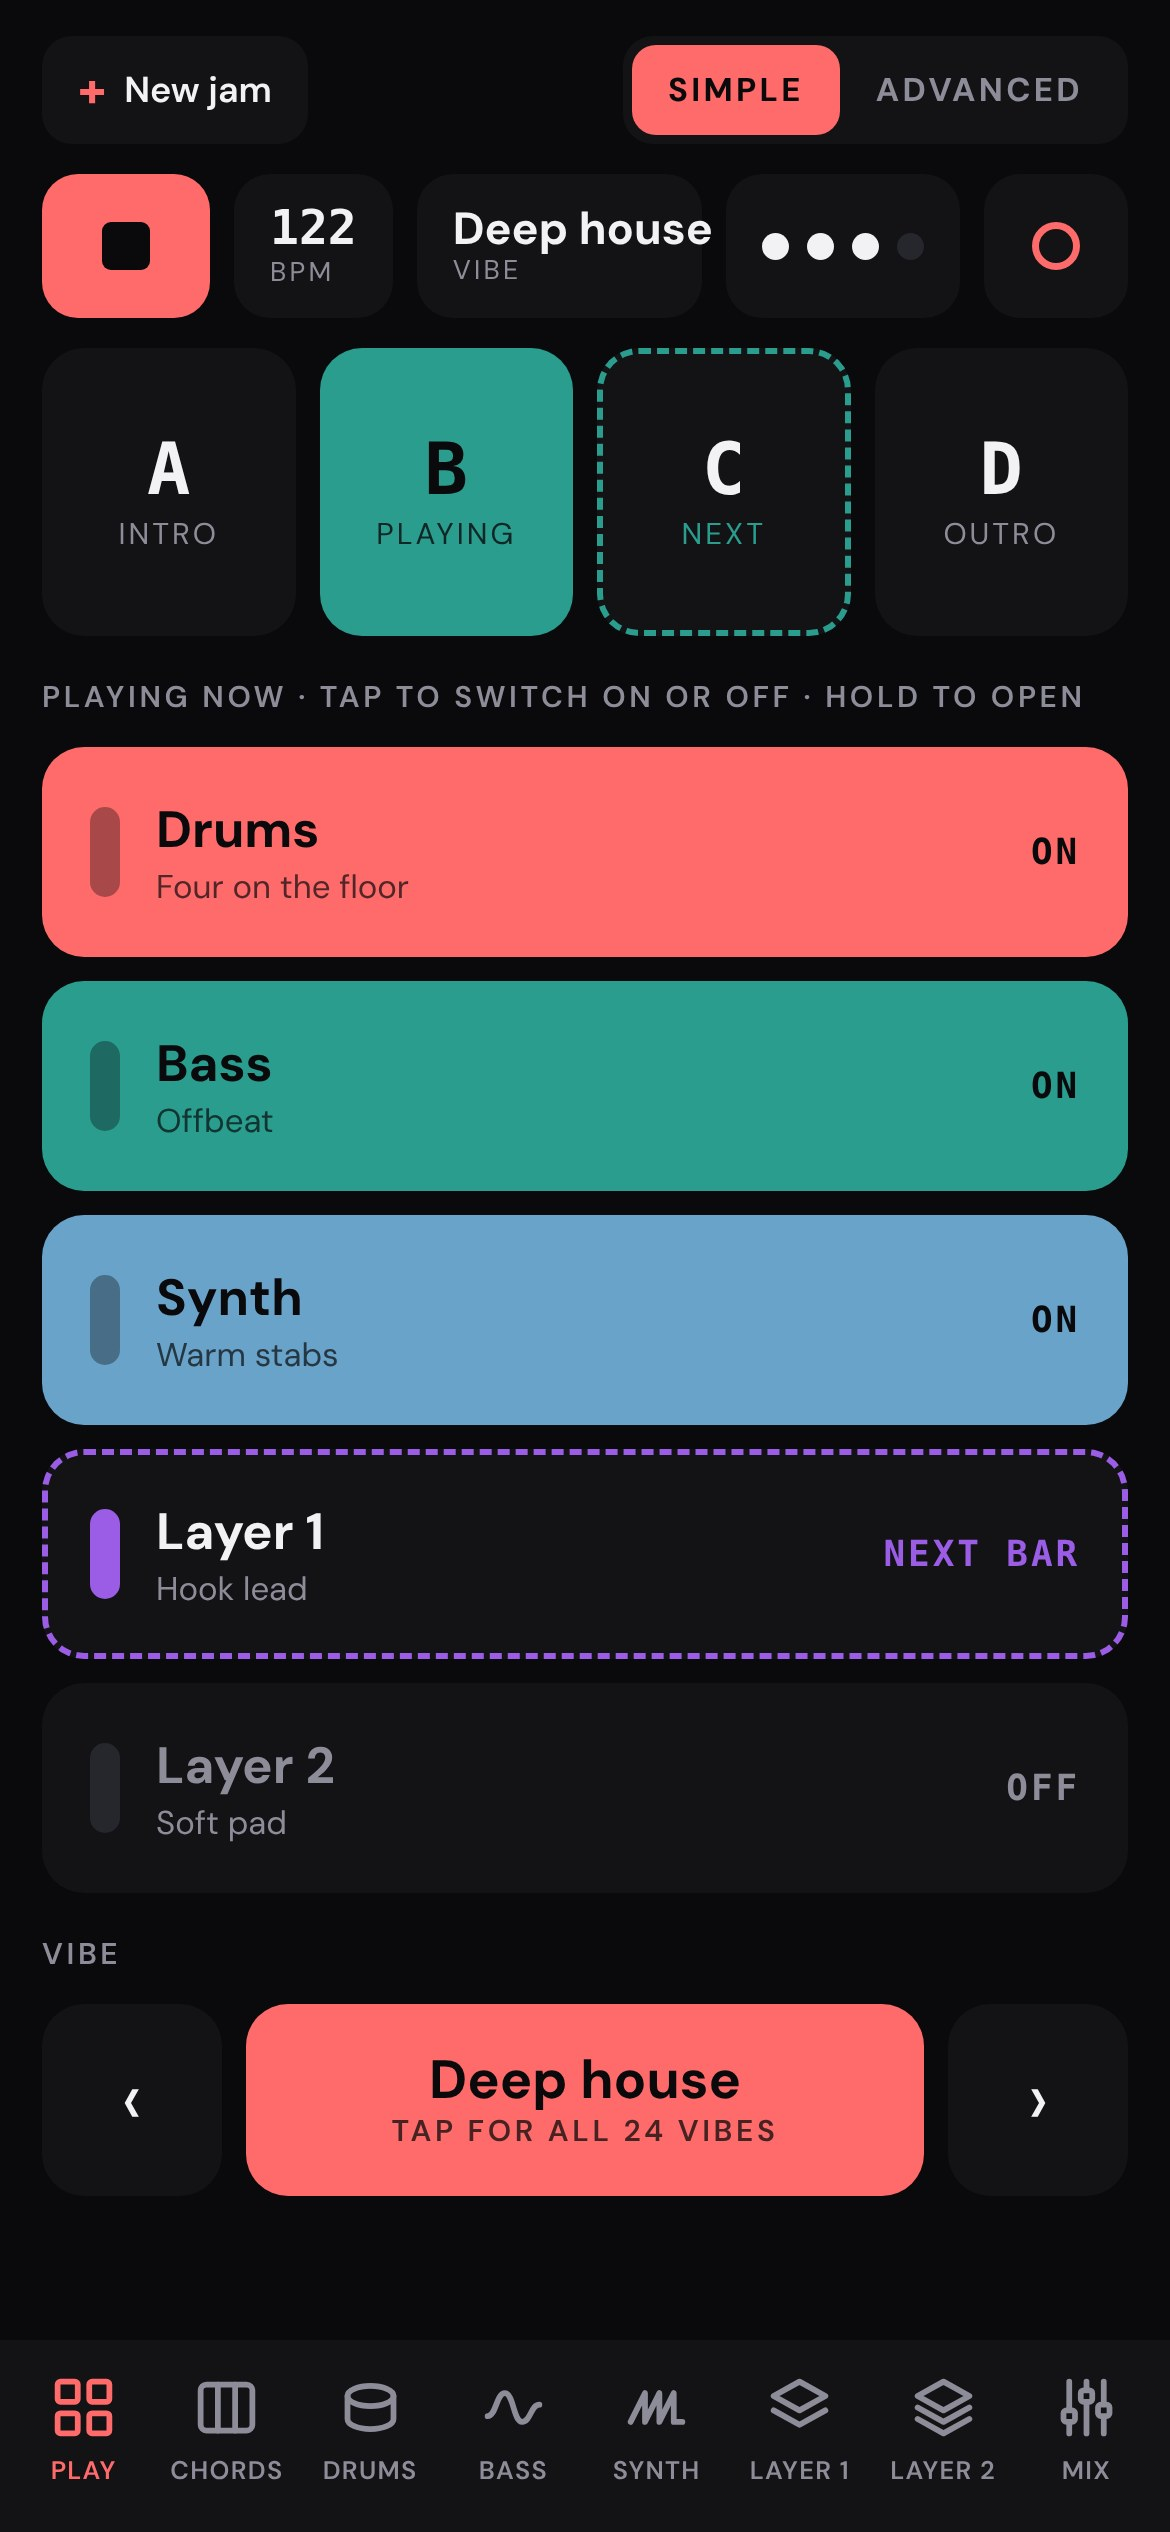
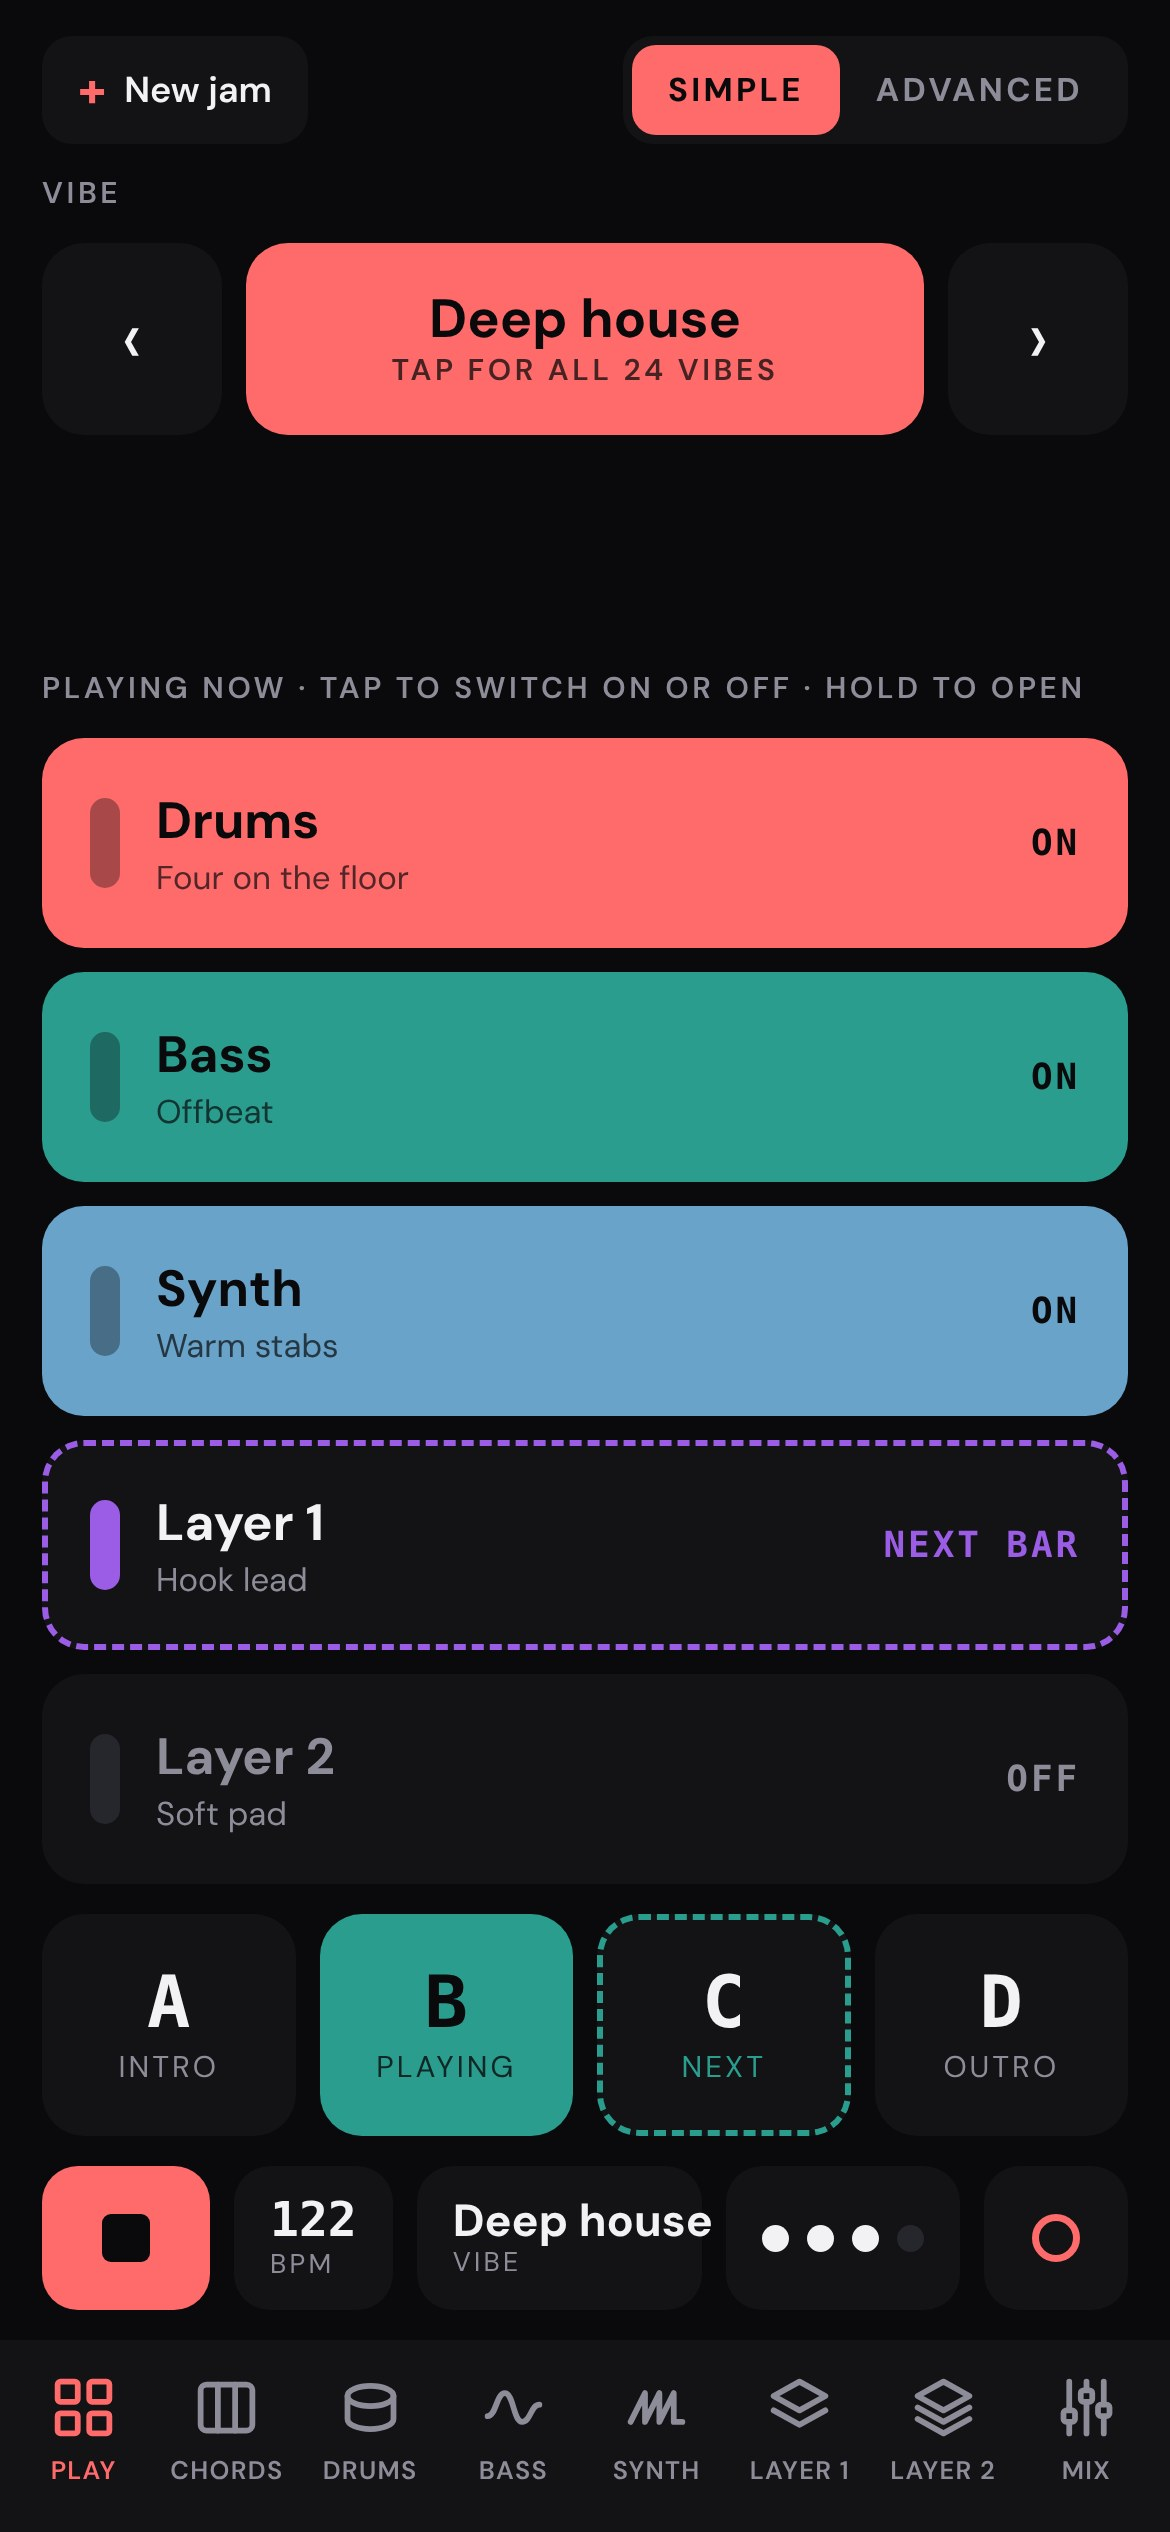
Phase 2 design: text always fits its tile; sections and transport at the bottom
Claude-Session: https://claude.ai/code/session_01KMmgQyHdzjD1srd9TaRjgE

diff --git a/docs/design/phase2/gen.py b/docs/design/phase2/gen.py
@@ -357,4 +357,75 @@ page("6-vibe-picker",
      + f'<div class="vgrid">{tiles}</div>'
      + '<div class="cap" style="text-align:center;margin-top:auto;padding-bottom:16px">One tap loads a full groove on the next bar</div>')
 
+# ---- revision 2: sections and transport sit at the bottom, in thumb reach ----
+CSS += """
+.content{flex:1;min-height:0;display:flex;flex-direction:column;gap:10px}
+.secs.big .sec{height:74px}
+.tabs{margin-top:0}
+"""
+
+def aligned_strip(states):
+    names_ = ["Intro", "Groove", "Break", "Outro"]
+    words_ = {"playing": "Playing", "next": "Next", "edit": "✎ Editing"}
+    out = '<div class="grid"><div class="cap" style="display:flex;align-items:center">Sections</div>'
+    for i, st in enumerate(states):
+        out += f'<div class="sec {st}" style="height:56px"><b>{"ABCD"[i]}</b><span>{words_.get(st, names_[i])}</span></div>'
+    return out + "</div>"
+
+def screen(name, mode, content, states, tab, big=False, aligned=False):
+    st = aligned_strip(states) if aligned else strip(states, big)
+    page(name, header(mode) + f'<div class="content">{content}</div>' + st + transport(mode) + tabs(tab))
+
+screen("1-simple-play", "simple",
+       '<div class="cap">Vibe</div>'
+       '<div class="stepper"><div class="arrow">‹</div><div class="cur"><b>Deep house</b><span>tap for all 24 vibes</span></div><div class="arrow">›</div></div>'
+       '<div style="flex:1"></div><div class="cap">Playing now · tap to switch on or off · hold to open</div>'
+       f'<div style="display:flex;flex-direction:column;gap:8px">{rows}</div>',
+       ["", "playing", "next", ""], "Play", big=True)
+
+screen("2-simple-layer", "simple",
+       f'<div class="title"><h1><span style="color:{v}">Layer 1</span></h1><div class="tog" style="background:{v}"><i></i></div></div>'
+       + chips(["Lead", "Arp", "Pad"], "Lead", v, 3)
+       + '<div class="cap">Lead style</div>' + chips(["Hook", "Phrase", "Roll", "Drift", "Pulse"], "Hook", v, 5)
+       + d2
+       + f'<div class="btns"><div class="btn">↶ Back</div><div class="btn" style="background:{v};color:#0a0a0c">✦ New idea</div></div>'
+       + xy(62, 45, "BRIGHT"),
+       ["", "playing", "", ""], "Layer 1")
+
+screen("3-simple-chords", "simple",
+       f'<div class="title"><h1><span style="color:{C["blue"]}">Chords</span></h1>'
+       '<div class="chip" style="margin-left:auto;height:32px;padding:0 12px;color:#f2f2f4">Deep house ▾</div></div>'
+       + '<div class="cap">Feel</div>' + chips(["Bright", "Warm", "Dreamy", "Dark", "Tense", "Uplifting"], "Dreamy", C["blue"], 3)
+       + '<div class="cap">Dreamy · 1 of 2</div>'
+       + f'<div style="display:flex;flex-direction:column;gap:8px">{cards4}</div>'
+       + '<div class="btns" style="grid-template-columns:1fr 1.2fr 1fr;margin-top:auto"><div class="btn">− Lower</div><div class="btn" style="color:#6aa3c9">More chords ›</div><div class="btn">Higher +</div></div>',
+       ["", "playing", "", ""], "Chords")
+
+g2 = '<div class="grid" style="margin-top:auto">'
+for n, col in INST:
+    g2 += f'<div class="rl" style="color:{col}">{n}<i>›</i></div>'
+    for i, o in enumerate(on[n]):
+        if n == "Bass" and i == 2:
+            g2 += f'<div class="cell next" style="--c:{col}"></div>'
+        else:
+            g2 += f'<div class="cell"{f" style=background:{col}" if o else ""}></div>'
+g2 += "</div>"
+legend2 = (
+    '<div class="legend" style="padding:12px 14px;gap:7px">'
+    '<div><i style="background:#2a9d8f"></i>Filled: playing now</div>'
+    '<div><i style="outline:2px dashed #2a9d8f;outline-offset:-2px"></i>Dashed: starts on the next bar</div>'
+    '<div><i style="outline:2px solid #e9c46a;outline-offset:-2px"></i>Pencil: editing without playing</div></div>'
+)
+screen("4-advanced-play", "advanced", legend2 + g2, ["", "playing", "next", "edit"], "Play", aligned=True)
+
+screen("5-advanced-layer", "advanced",
+       f'<div class="title"><h1><span style="color:{v}">Layer 1</span></h1>'
+       f'<div style="margin-left:auto;display:flex;gap:8px;align-items:center"><div class="chip" style="height:30px;padding:0 10px;color:#f2f2f4">↶ Back</div><div class="chip" style="height:30px;padding:0 10px;background:{v};color:#0a0a0c">✦ New</div><div class="tog" style="background:{v};margin-left:0"><i></i></div></div></div>'
+       + chips(["Lead", "Arp", "Pad"], "Lead", v, 3)
+       + chips(["Hook", "Phrase", "Roll", "Drift", "Pulse"], "Phrase", v, 5)
+       + '<div style="display:flex;align-items:center;gap:8px"><div class="cap">Page</div><div style="flex:1">' + chips(["Notes", "Feel", "Sound"], "Notes", "#f2f2f4", 3) + "</div></div>"
+       + f'<div><div class="steps">{steps}</div><div class="cap" style="margin-top:6px">Phrase · bar 2 of 4</div></div>'
+       + d6 + xy(58, 45, "CUTOFF"),
+       ["", "playing", "", "edit"], "Layer 1")
+
 print("ok")

diff --git a/docs/SPEC.md b/docs/SPEC.md
@@ -133,7 +133,7 @@ Settled on 23 Nov 2026 after Pedro played bundles 1 to 3. Where this section dif
 
 ### 8.1 Two modes, one song
 
-- **One toggle, app-wide,** in the transport bar: Simple or Advanced. It is remembered between launches. A new install starts in Simple.
+- **One toggle, app-wide,** in the header: Simple or Advanced. It is remembered between launches. A new install starts in Simple.
 - **The mode changes what is shown, never what is heard.** Same song document, same engine. Switching mode mid-jam makes no sound change and loses nothing.
 - **Simple** uses plain words only. No scale names, chord degrees, Euclidean, envelope or any term a non-musician would have to look up.
 - **Advanced** is every control the app has: all of sections 3 to 5, plus what this section adds.
@@ -157,7 +157,7 @@ A style is a complete starting point: one tap gives a full groove.
 - **A style sets everything:** bpm, swing, key and mood, its chord progression, drum beat, bass rhythm, synth rhythm, the five patches, each layer's mode and lead style, send and mix settings, and four sections arranged as intro, groove, break and outro with different instruments on in each.
 - **A style is one data file** under `src/styles/`. Adding a style, a drum beat, a bass rhythm, a patch or a progression needs no engine or UI code; pickers list whatever exists.
 - **Opening the app** shows the vibe picker: all 24 as tiles in two columns on one screen, coloured by family, with "Continue last jam" first when there is one. It does not scroll. Tapping a tile loads it and starts playing.
-- **New jam from style** is always one tap away from the transport bar. Loading a style while playing lands on the next bar line. The jam it replaces stays available as "Previous jam" until the next one replaces it.
+- **New jam from style** is always one tap away, in the header. Loading a style while playing lands on the next bar line. The jam it replaces stays available as "Previous jam" until the next one replaces it.
 - **Bpm range becomes 60 to 180** so Lo-fi and Ambient fit.
 - **No samples, ever** (replaces the mention of sampled breaks in section 3). Every sound and effect is synthesized in code. No audio files ship with the app.
 
@@ -231,19 +231,29 @@ The six images in `docs/design/phase2/` are the reference for these screens: Sim
 - A tab with more controls than fit uses pages, switched by large page chips at the top of the tab. Advanced is where the fine control lives.
 - The saved-jams list is the one thing that scrolls. It contains only tappable rows.
 
-**No text wraps or is cut off on a tile, chip, button, dial or pill,** at 360 px wide and up. A label that does not fit is shortened in the source, not shrunk or wrapped. Help text goes under a control or in a sheet, never inside a tile.
+**Text always fits its tile.** On a tile, chip, button, dial or pill, at 360 px wide and up, text never wraps, is never cut off and never overflows the edge. Text that is too wide is drawn smaller until it fits, down to 10 px. A label that still does not fit at 10 px is shortened in the source. Help text goes under a control or in a sheet, never inside a tile.
+
+**The controls used most sit at the bottom, in thumb reach.** Every screen is laid out in this order, top to bottom:
+
+1. Header: New jam and the Simple / Advanced switch.
+2. The tab's own content. Within it, the control touched most (the XY pad, the instrument buttons, the grid) sits lowest.
+3. The section strip.
+4. The transport bar: play and stop, bpm, vibe or key, the beat dots, record.
+5. The tab bar.
+
+The strip and the transport bar are in the same place on every tab. On the Advanced Play tab the strip is indented to line up under the grid's four columns, so the strip is the grid's column labels.
 
 **One row of sections.**
-- The section strip appears once on every screen. On the Play tab the grid's column headers are that strip; there is no second row.
+- The section strip appears once on every screen, above the transport bar. On the Play tab the grid sits directly on top of it and uses it as its column labels; there is no second row.
 - Tapping a section always means the same thing: play it from the next bar line. The edited section follows the playing one.
 - Editing a section that is not playing is Advanced only: hold a section and choose "Edit without playing". It then carries a pencil mark until it is played or released.
 - Three states, each with its own look and a word under the letter the first times it appears: playing (filled), next (outlined, pulsing), editing (pencil).
 - A bar indicator of four beat dots sits by the play button, so it is visible when "next bar" arrives.
 
 **Play tab.**
-- **Simple, "Now":** four large section buttons and five large instrument buttons for the playing section. Tap an instrument to turn it on or off at the next bar. Hold an instrument to open its tab.
-- **The vibe control** sits on the Simple Play tab under the instrument buttons: the current vibe as one large button with an arrow button on each side. An arrow loads the previous or next vibe from the next bar line; the middle button opens the vibe picker. The replaced jam stays as Previous jam. Nothing else on the screen.
-- **Advanced, "Song":** the instruments-by-sections grid built in G2, with the strip as its header.
+- **Simple, "Now":** the vibe control at the top, then five large instrument buttons for the playing section, directly above a taller section strip. Tap an instrument to turn it on or off at the next bar. Hold an instrument to open its tab.
+- **The vibe control** sits at the top of the Simple Play tab: the current vibe as one large button with an arrow button on each side. An arrow loads the previous or next vibe from the next bar line; the middle button opens the vibe picker. The replaced jam stays as Previous jam. Nothing else on the screen.
+- **Advanced, "Song":** the instruments-by-sections grid built in G2, sitting on the strip.
 
 **The last jam survives a reload** (kept on the phone automatically), ahead of the full save screen of row G5.
 

diff --git a/docs/BACKLOG.md b/docs/BACKLOG.md
@@ -31,20 +31,21 @@ Spec section 8 is the brief for bundles 4 to 6. Read it in full before any row.
 
 ### P1. One row of sections, no scrolling, the Now view
 
-- Spec 8.6 in full: Advanced never scrolls vertically at 360 x 640 and up and uses pages with large chips; Simple never scrolls or swipes in any direction; no text wraps or is cut off on any tile, chip, button, dial or pill.
+- Spec 8.6 in full: Advanced never scrolls vertically at 360 x 640 and up and uses pages with large chips; Simple never scrolls or swipes in any direction; text always fits its tile (never wraps, clips or overflows; drawn smaller down to 10 px, then shortened).
 - Fix every existing label that wraps today (the Play grid's "hold a column for options" tile is one).
-- One section strip everywhere; the Play grid's header is the strip. Tap always means play next bar; "Edit without playing" by hold, kept for Advanced.
+- The bottom-up layout of spec 8.6: header, content, section strip, transport bar, tab bar, on every tab; the Play grid sits on the strip.
+- One section strip everywhere. Tap always means play next bar; "Edit without playing" by hold, kept for Advanced.
 - The three section states with their looks and words, and the four-dot bar indicator.
 - The Simple Play tab ("Now"): four section buttons, five instrument buttons, hold to open a tab, and room kept under them for the vibe control that P3 adds. The grid stays as the Advanced Play tab.
 - The last jam survives a reload.
 - Until P2 lands the mode toggle, a temporary switch on the Play tab chooses Now or Song.
-- Smoke test: at 360 x 640 and 412 x 915, on every tab and page in both modes, the document does not scroll, no control is cut off, and no tile, chip, button, dial or pill has wrapped or clipped text.
+- Smoke test: at 360 x 640 and 412 x 915, on every tab and page in both modes, the document does not scroll, no control is cut off, and no tile, chip, button, dial or pill has text that wraps, clips or overflows its box; the strip and transport bar sit directly above the tab bar.
 
 **Done when:** no tab scrolls at either size (tested); there is one row of sections on every screen; a section tap means the same thing everywhere; the Now view runs a whole jam; a reload brings the jam back; `check` and `smoke` pass.
 
 ### P2. Simple and Advanced
 
-- Spec 8.1 and 8.3: the app-wide toggle in the transport bar, remembered; Simple as the first-run default.
+- Spec 8.1 and 8.3: the app-wide toggle in the header, remembered; Simple as the first-run default.
 - Simple instrument tabs: one picker and four macro dials each, as in the 8.3 table, plus the XY pad. Macro mappings as data; macro positions stored in the song.
 - Advanced tabs are the tabs built in G2 to G4, re-laid to the no-scroll rule.
 - Simple uses plain words only: check every visible string in Simple against 8.1.
@@ -61,7 +62,7 @@ Spec section 8 is the brief for bundles 4 to 6. Read it in full before any row.
 - The beats, bass rhythms and patches those eight need, as data, using the engine as it is.
 - Bpm range 60 to 180.
 - The vibe control on the Simple Play tab (spec 8.6): current vibe with an arrow each side, arrows step on the next bar, the middle opens the picker.
-- The vibe picker as the opening screen: a two-column grid that fits all 24 tiles on one screen without scrolling (unbuilt styles are not shown until they exist), Continue last jam first; New jam from style in the transport bar; loading lands on the next bar; Previous jam kept.
+- The vibe picker as the opening screen: a two-column grid that fits all 24 tiles on one screen without scrolling (unbuilt styles are not shown until they exist), Continue last jam first; New jam from style in the header; loading lands on the next bar; Previous jam kept.
 - Move the existing presets (moods, drum presets, bass and synth rhythms) to data files in the same way, with pickers that list whatever exists.
 
 **Done when:** each of the eight styles loads and plays with every instrument audible in its groove section (smoke test loops all of them); adding another style is one new file and no other change (shown by a test fixture); loading a style mid-jam lands on the bar; `check` and `smoke` pass. Whether each style sounds like its name is Pedro's call.
